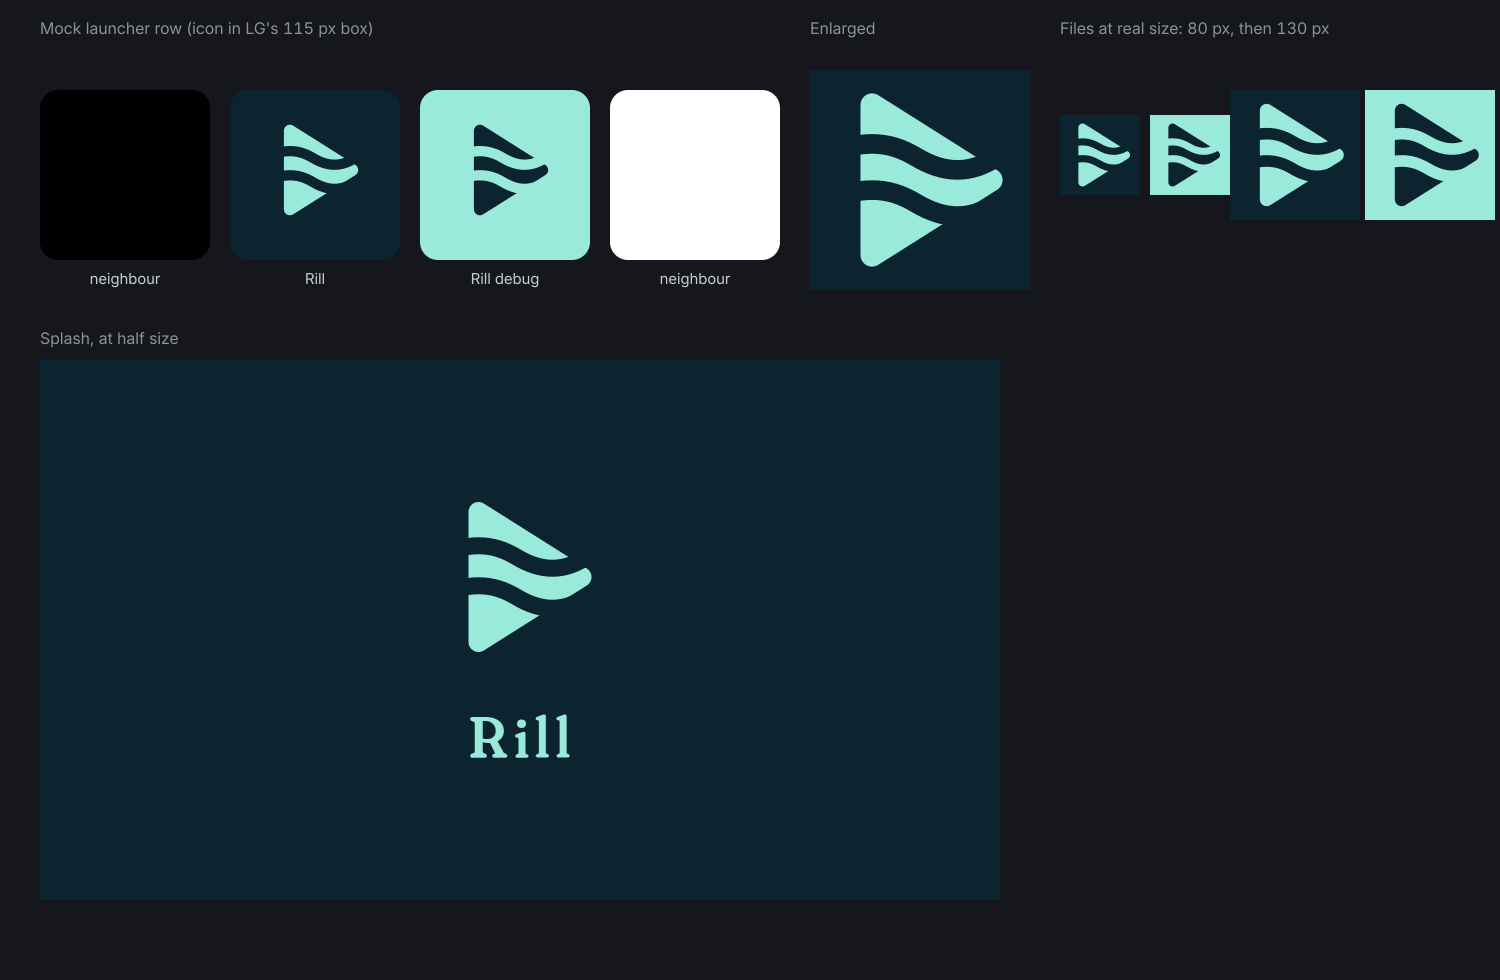
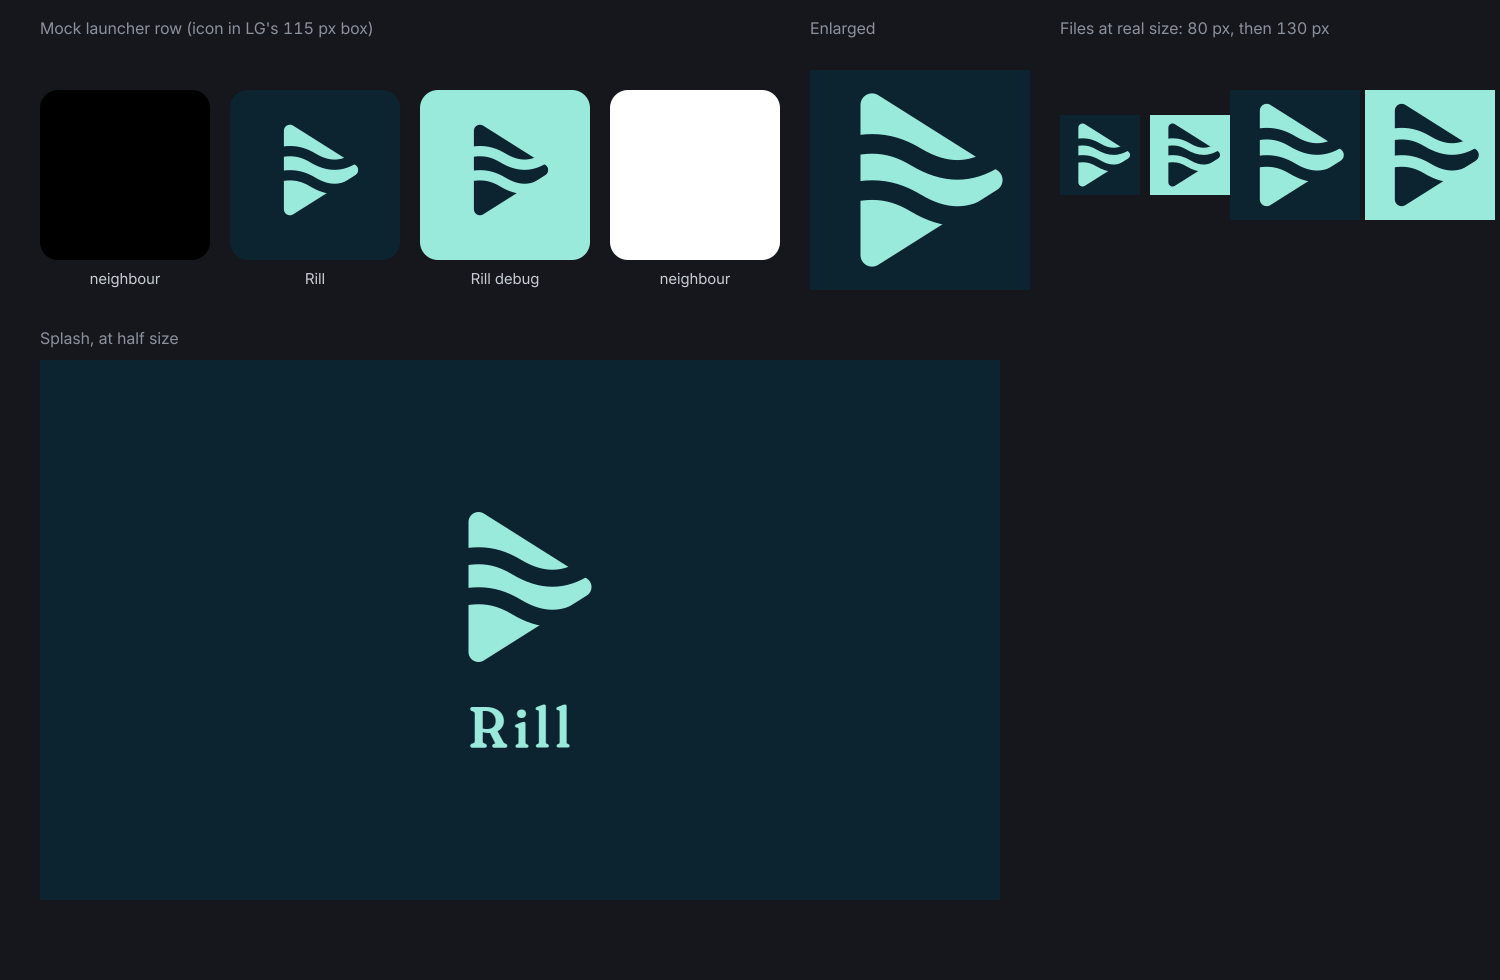
Close the splash's gap between mark and word to 85 px
Round 11's G2, the agent's pick: the owner was shown five settings and
named none.

Changed region(s): [[0.3067, 0.4898, 0.3987, 0.6735], [0.3067, 0.7041, 0.368, 0.7959]]

diff --git a/artwork-prototype/final.py b/artwork-prototype/final.py
@@ -60,8 +60,8 @@ SPLASH_SCALE, WORD_PX = 1.0, 116  # round 9, P3: a 300 px mark over a 116 px wor
 # Vertically the ink centre is 2.7 units low, under 1 px at 130, and is left alone.
 TILE_SHIFT, SPLASH_SHIFT = -7.4, -7.0
 
-# Still guessed: round 11's five settings (G1 to G5) were shown and none was picked. These are G1.
-SPLASH_GAP, WORD_SPACING = 125, 12.6
+# The agent's pick: round 11, G2. The owner was shown G1 to G5 and named none.
+SPLASH_GAP, WORD_SPACING = 85, 12.6
 
 ENV = dict(os.environ)
 
